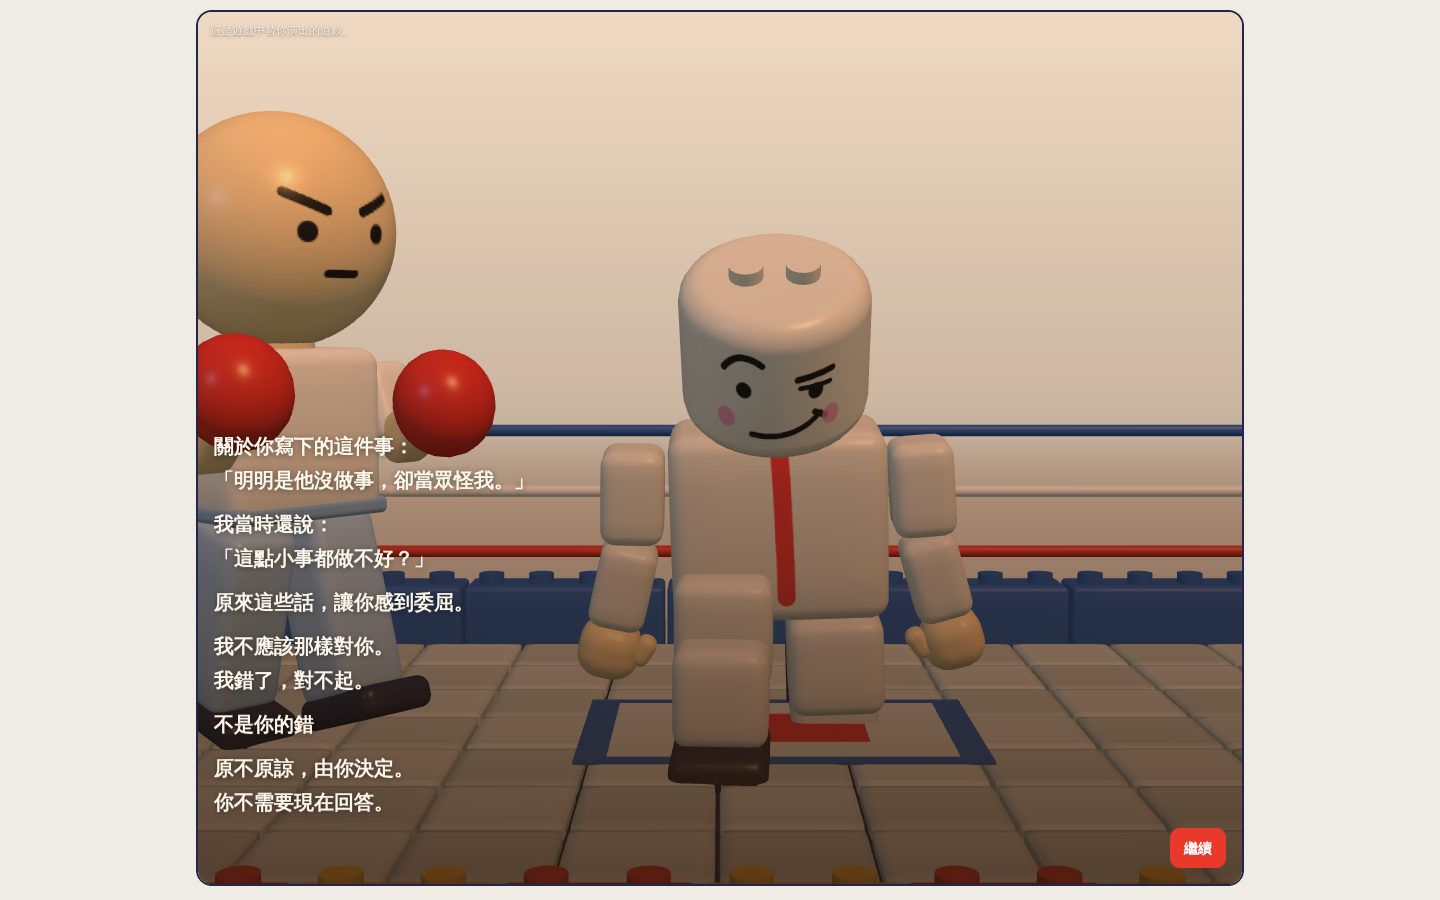
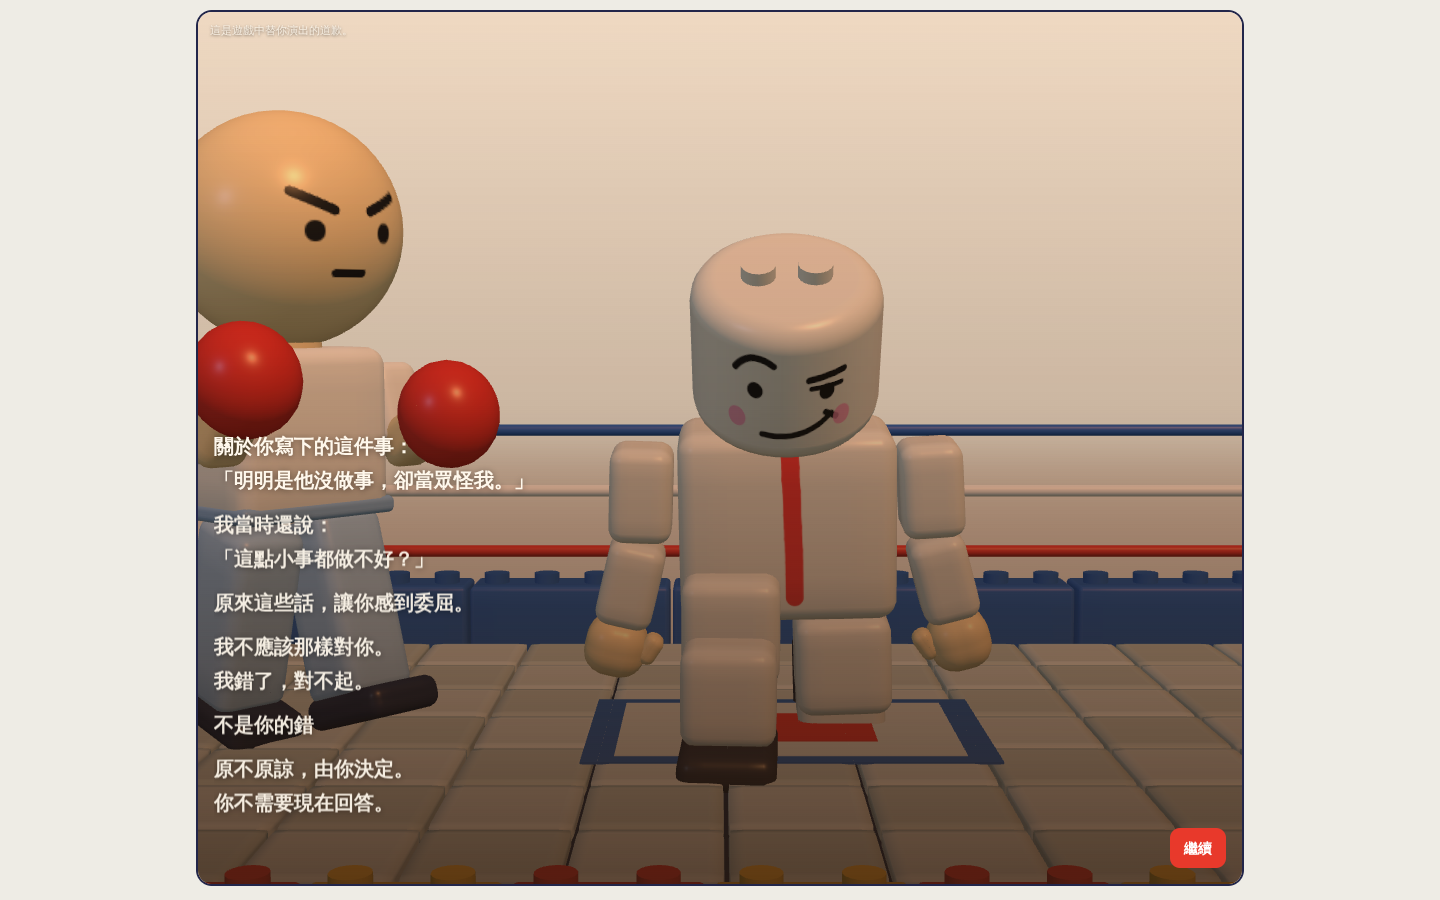
階段 3：開場挑釁與打碎賤話、D 對話、道歉與值得聽到、五個結尾、降溫段、小小的下一步、前後氣憤值與支援提示、再打一次重置與休息提示、GitHub Pages 部署設定
Claude-Session: https://claude.ai/code/session_01W9KMAiYuezKnkxaZ7ikoB8

diff --git a/src/game/battle/BattleController.ts b/src/game/battle/BattleController.ts
@@ -129,7 +129,8 @@ export class BattleController {
   private forgiveFx: ForgiveFx | null = null;
   private leaveFx: LeaveFx | null = null;
   private walkFrom = { puppet: 0, player: 0 };
-  private camOverride: { x: number; dist: number; lookY: number; camY: number } | null = null;
+  /** 演出用鏡頭；minHalfW＝左右至少要看到的半寬，窄螢幕會自動拉遠 */
+  private camOverride: { x: number; dist: number; lookY: number; camY: number; minHalfW?: number } | null = null;
 
   constructor(
     private readonly dom: BattleDom,
@@ -561,7 +562,7 @@ export class BattleController {
         this.setWarmth(1);
         this.host.lights.hemi.intensity *= 0.6;
       }
-      this.camOverride = { x: p.x * 0.4 - 0.6, dist: 13, lookY: 2.3, camY: 3.4 };
+      this.camOverride = { x: p.x * 0.4 - 0.6, dist: 13, lookY: 2.3, camY: 3.4, minHalfW: 3.6 };
     } else if (this.phase === 'ending') {
       const u = Math.min(1, t / APOLOGY.endingTime);
       const show = this.endingShow;
@@ -574,7 +575,7 @@ export class BattleController {
         this.setWarmth(0.6);
         bg.lerp(new Color('#F7E8BE'), Math.min(1, u * 2));
         this.forgiveFx?.update(u, pl.x, { x: p.x, y: p.lift + headCenterY() + 0.8 });
-        this.camOverride = { x: 0, dist: 15, lookY: 3.2, camY: 4.0 };
+        this.camOverride = { x: 0, dist: 15, lookY: 3.2, camY: 4.0, minHalfW: 4.2 };
       } else if (show === 'leave') {
         p.setFade(1);
         p.setStance(true, -1);
@@ -589,7 +590,7 @@ export class BattleController {
         L.key.intensity *= u > 0.55 ? 0 : 1;
         bg.lerp(new Color('#2E2A36'), smooth((u - 0.3) / 0.3));
         this.leaveFx?.update(u, pl.x);
-        this.camOverride = { x: Math.max(-5.5, pl.x * 0.6), dist: 17, lookY: 3, camY: 4 };
+        this.camOverride = { x: Math.max(-5.5, pl.x * 0.6), dist: 17, lookY: 3, camY: 4, minHalfW: 5 };
       } else if (show === 'later') {
         // 傍晚：木偶在角落安靜坐著，玩家坐在舞台邊緣
         p.setFade(1);
@@ -602,7 +603,7 @@ export class BattleController {
         this.setWarmth(1);
         this.host.lights.hemi.intensity *= 0.75;
         bg.lerp(new Color('#E8A27E'), smooth(u / 0.6));
-        this.camOverride = { x: 1.4, dist: 22, lookY: 2.4, camY: 4.4 };
+        this.camOverride = { x: 1.4, dist: 22, lookY: 2.4, camY: 4.4, minHalfW: 5.4 };
       }
     }
     p.update(dt, { walls: [GAME.wallL - 6, GAME.wallR], reducedMotion: prefersReducedMotion() });
@@ -618,7 +619,9 @@ export class BattleController {
     const z = pl.rig.root.position.z;
     pl.pose(frameDt, { x: p.x, faceY: p.lift + headCenterY() * p.squashScaleY, faceFront: PART_DEFS.head.size[2] / 2 });
     pl.rig.root.position.z = z;
-    const f = this.camOverride ?? computeFrame({
+    const o = this.camOverride;
+    const tv = Math.tan(((this.host.camera.fov / 2) * Math.PI) / 180);
+    const f = o ? { ...o, dist: Math.max(o.dist, (o.minHalfW ?? 0) / (tv * this.host.camera.aspect)) } : computeFrame({
       aspect: this.host.camera.aspect,
       fov: this.host.camera.fov,
       actors: [

diff --git a/src/styles.css b/src/styles.css
@@ -360,7 +360,7 @@ kbd { font-family: var(--font-num); font-size: 12px; border: 1.5px solid var(--l
 /* 降溫段 */
 .calm { position: absolute; inset: 0; z-index: 6; display: flex; flex-direction: column; align-items: center; justify-content: center; gap: 18px; background: radial-gradient(circle at 50% 50%, rgba(60, 50, 90, 0.75), rgba(25, 22, 45, 0.92)); color: #fff8ec; overflow: hidden; pointer-events: auto; }
 .calm-title { margin: 0; font-size: clamp(18px, 4.4vw, 24px); font-weight: 800; text-align: center; padding: 0 56px; }
-.calm-skip { position: absolute; top: 10px; right: 10px; }
+.calm-skip { position: absolute; top: 10px; right: 10px; color: var(--ink); }
 .calm-ring { width: min(46vw, 220px); aspect-ratio: 1; border-radius: 50%; border: 3px solid rgba(255, 220, 150, 0.9); box-shadow: 0 0 40px rgba(255, 210, 130, 0.6), inset 0 0 30px rgba(255, 210, 130, 0.35); transform: scale(0.6); transition-property: transform, opacity; transition-timing-function: ease-in-out; }
 .calm-ring[data-inhale='true'] { transform: scale(1); }
 .calm-ring.reduced { transform: none; opacity: 0.45; transition-property: opacity; }

diff --git a/tests/e2e/screenshots.spec.ts b/tests/e2e/screenshots.spec.ts
@@ -53,9 +53,11 @@ for (const s of SIZES) {
     await page.waitForTimeout(1500);
     await page.getByTestId('worthy').click();
     await expect(page.getByTestId('ending-choices')).toBeVisible();
+    await page.waitForTimeout(900);
     await page.screenshot({ path: `${DIR}/${s.name}-07-choices.png` });
     await page.getByTestId('ending-forgive').click();
     await expect(page.getByTestId('ending-text')).toBeVisible({ timeout: 30_000 });
+    await page.waitForTimeout(900);
     await page.screenshot({ path: `${DIR}/${s.name}-08-forgive.png` });
     await page.getByTestId('ending-continue').click();
     await page.waitForTimeout(2500);
@@ -63,6 +65,7 @@ for (const s of SIZES) {
     await page.getByTestId('breath-skip').click();
     await page.getByRole('button', { name: '不用了' }).click();
     await page.getByTestId('anger-after-range').fill('8');
+    await page.waitForTimeout(900);
     await page.screenshot({ path: `${DIR}/${s.name}-10-anger.png` });
   });
 }
